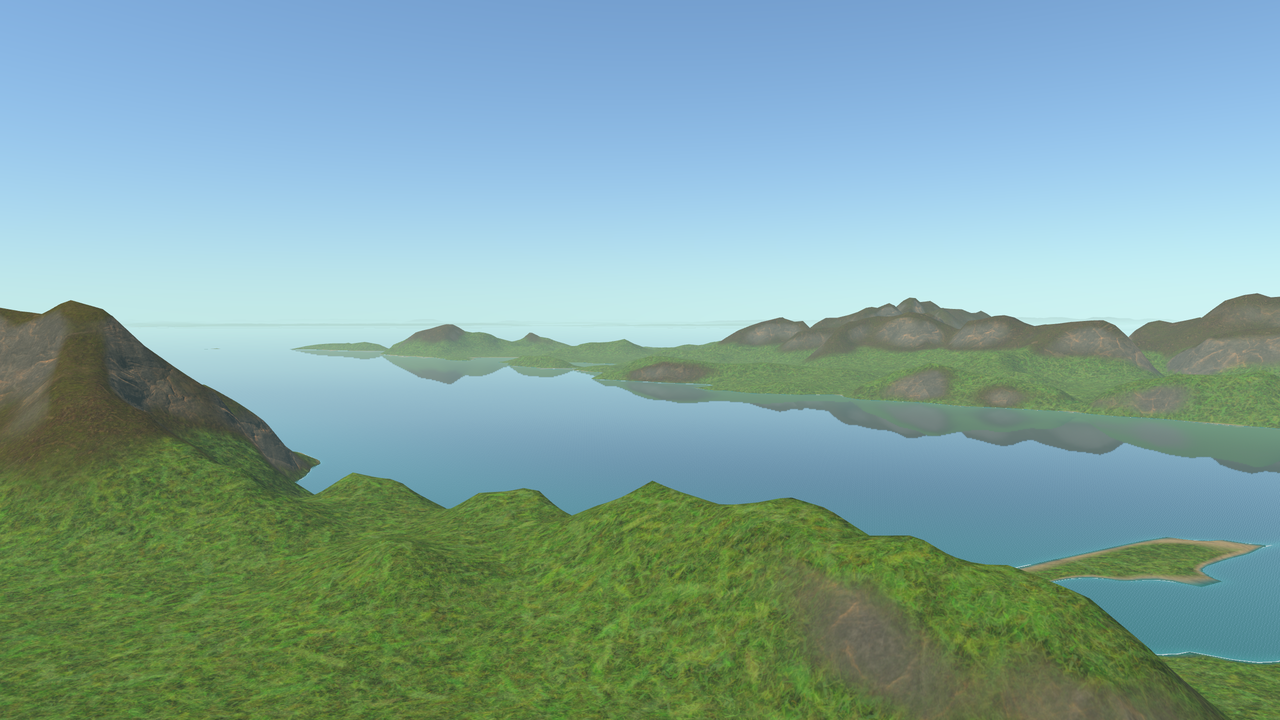
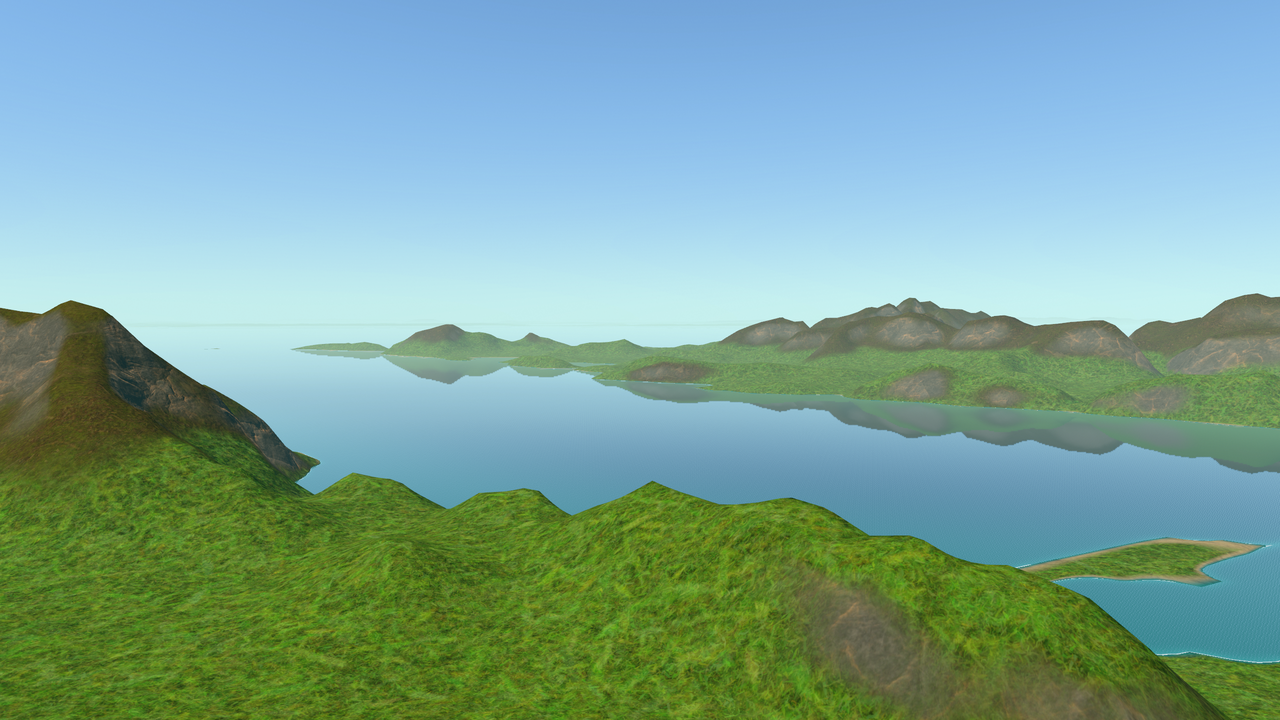
Re-render milestone 6 and 7 screenshots with HDR tone mapping and document it

Changed region(s): [[0.0, 0.3972, 1.0, 1.0]]

diff --git a/README.md b/README.md
@@ -66,6 +66,10 @@ flowchart LR
 ## How light and shadow work
 
 - **Sun and moon:** the sun's position comes from the NOAA solar equations for a local clock time and date at 53.4° N, 8° W, with Irish summer time and refraction, so sunrise directions, sunset times and the noon height are right (60° at midsummer, 13° at midwinter). Its colour and strength come from the same Rayleigh, Mie and ozone model as the sky, so a low sun is warm and dim. As the sun drops below 30°, the air takes on an evening haze (denser, reddening aerosol) that gives a warm glow towards the sun, and the low sun's light is saturated and lifted while the sky light in shade is cooled, so golden hour has warm slopes against blue shade; noon is unaffected. The moon is always full, opposite the sun, and takes over as the light once the sun has set; stars turn about the celestial pole and fade in with the dark, and the sky keeps a dark blue floor of airglow, so night is never black. At night, colours fade and shift towards blue as the eye's rods take over (the Purkinje effect), so moonlit land reads blue-grey.
+- **HDR and tone mapping:** the scene is rendered unclamped into a multisampled floating-point target (packed R11G11B10F: the same image as RGBA16F at a quarter of the cost), resolved, and tone mapped in one final pass: exposure, then the Khronos PBR Neutral curve, then sRGB with a little dither against banding. PBR Neutral is linear up to about 0.8, like the earlier display transform, so noon views are close to before; above that it compresses highlights keeping their hue and fades them to white only gradually, so a low sun's glow is a smooth warm gradient instead of clipped white. `--tone-mapper agx` switches to AgX, a filmic curve that turns bright colours towards white sooner. At night the exposure rises by up to one stop, as the eye adapts, so moonlit land stays readable. The whole pipeline costs about 0.1 ms of GPU time at 2560 × 1440.
+  Why these choices: AgX and fitted ACES were tried first. Both stop the clipping, but they turn bright colours towards white early, so the noon sky came out 10–15% paler and the warm glow around a setting sun went grey-pink; PBR Neutral keeps both. The HDR target is R11G11B10F rather than RGBA16F because, with 4× MSAA at 2560 × 1440, RGBA16F's doubled bandwidth cost about 1 ms of GPU time against 0.1–0.3 ms, for an image at most 3/255 different and with no banding after the dither.
+
+  ![Glenbeigh at 21:30 tone mapped with PBR Neutral (left, the default) and AgX (right)](docs/images/tone-mapping-comparison.png)
 - **Sky:** the sky is rendered into a cubemap, which also gives the ambient light (spherical harmonics) and the fog colour. While the sun moves, a second cubemap is rendered one face per frame and its small mip is read back asynchronously for the ambient light, then both are swapped in together, so the sky never causes a frame spike.
 - **Cascaded shadow maps:** four 2048² cascades cover the view from about half the camera's height above the ground out to ten times that height (30–150 km). Each cascade is fitted to the bounding sphere of its slice of the view and snapped to whole texels in world space, so shadows do not shimmer as the camera moves or turns. The depth pass reuses the CDLOD node selection, culled to each cascade and coarser in the outer ones, and clamps casters between a cascade and the sun onto its near plane. Receivers use a 3 × 3 hardware-filtered PCF, a normal offset that grows as the light grazes the surface, and a slope-scaled depth bias, and neighbouring cascades are cross-faded. Shadows dim only direct light, so the sky still lights the shade; they fall on the sea too.
 - **Distant shadows:** beyond the last cascade, each terrain tile (4 km nodes and coarser) carries a horizon map, made on the worker thread when the tile is generated: for every other grid point, the elevation of the horizon in eight compass directions, found by marching outwards over the tile and over a coarser grid of heights reaching two node widths beyond it. The shader interpolates the horizon angle at the light's bearing and compares it with the light's elevation, and the last cascade fades into it. This costs two texture fetches per pixel, about 2 ms more work per coarse tile on the worker and nothing measurable on the GPU; ray-marching the height texture towards the sun would need a dozen or more fetches per pixel every frame and could not see casters past the edge of the node's own tile. The sea gets cascade shadows on its light and glint only; beyond them the haze dominates.
@@ -109,6 +113,8 @@ build\Release\emerald-isle.exe       # Windows (Visual Studio generator)
 | `--autofly <s>` | Fly straight ahead at 2.5 km/s for *s* seconds, print frame and streaming stats, exit |
 | `--frame-log <file>` | Write a CSV row per frame: time in events, update, terrain streaming, rendering and swap, tile and triangle counts, and whether the window had focus |
 | `--validate <tiles>` | Check correctness during the run: no GL errors (counted separately inside the shadow passes), shadow casters drawn, no holes in the visible terrain once it has loaded, ground always loaded under the camera, and at least *tiles* tiles generated and resident. Prints PASS/FAIL per check and exits non-zero on failure (used by CI) |
+| `--exposure <ev>` | Exposure offset in stops for the final tone mapping (default 0) |
+| `--tone-mapper <name>` | `neutral` (default, Khronos PBR Neutral) or `agx` |
 | `--gpu-timing` | Also measure GPU time per frame with timer queries (exit stats and `gpu_ms` in the frame log); costs ~0.4 ms a frame on macOS |
 
 The window title shows the frame rate and frame time, terrain triangles, draw calls and loaded tiles (plus any still streaming). On exit the app prints the median, p99 and maximum frame time, the frames over the 120 Hz and 60 Hz budgets (8.3 ms and 16.7 ms), the time before the swap (CPU work plus driver waits, so the rest of a slow frame is waiting to present), and the terrain's main-thread cost. With vsync on, the frame rate follows the display's refresh rate (logged at startup) and the exit stats add the average presentation rate. Single frame times are less useful then: a swap sometimes returns at once and the next waits two refreshes, so pairs of ~1.7 ms and ~15 ms frames appear even when every refresh gets a new frame.
